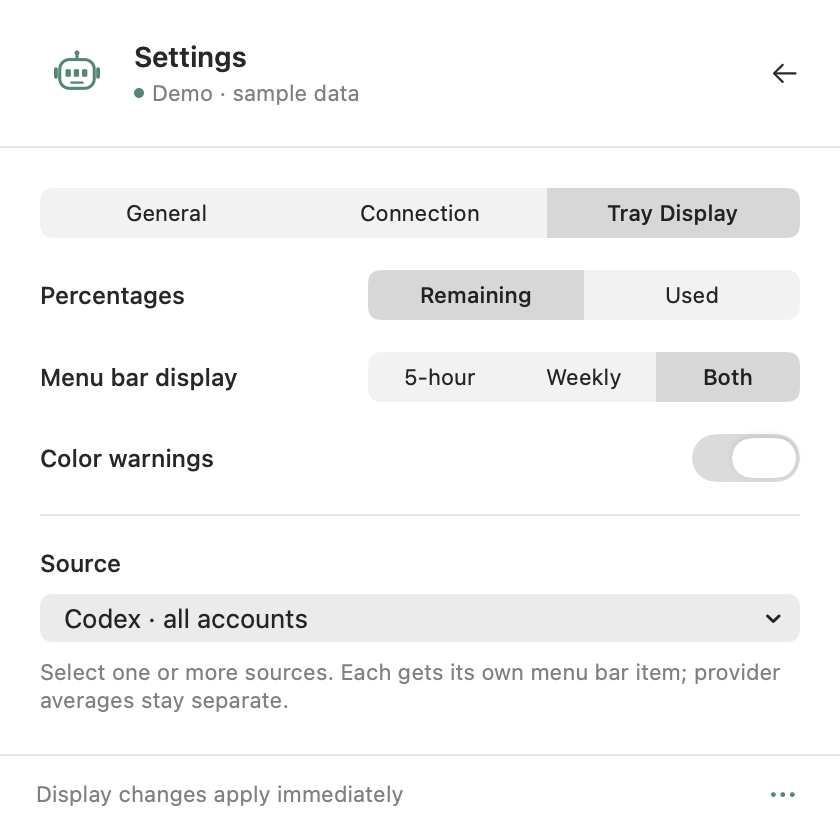
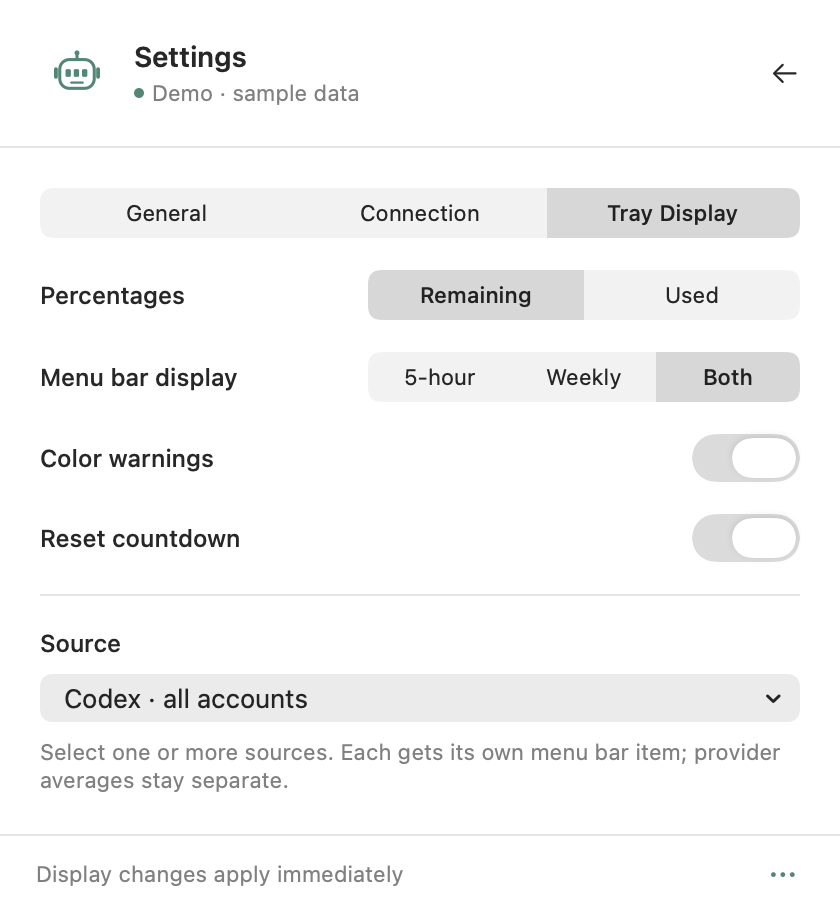
Make tray reset countdown independently configurable

diff --git a/Sources/CliProxyQuota/App.swift b/Sources/CliProxyQuota/App.swift
@@ -71,8 +71,8 @@ import QuotaCore
             button.font = .monospacedDigitSystemFont(ofSize: 12, weight: .medium)
             if index < readouts.count {
                 let readout = readouts[index]
-                button.attributedTitle = MenuBarAppearance.title(for: readout, mode: store.percentageMode, window: store.menuBarWindow, includeSource: readouts.count > 1, coloredWarnings: store.trayColorWarnings)
-                let resetText = store.trayColorWarnings ? readout.recoveryText(window: store.menuBarWindow).map { " · " + $0 } ?? "" : ""
+                button.attributedTitle = MenuBarAppearance.title(for: readout, mode: store.percentageMode, window: store.menuBarWindow, includeSource: readouts.count > 1, coloredWarnings: store.trayColorWarnings, showResetCountdown: store.trayResetCountdown)
+                let resetText = store.trayResetCountdown ? readout.recoveryText(window: store.menuBarWindow).map { " · " + $0 } ?? "" : ""
                 button.setAccessibilityLabel(readout.text(mode: store.percentageMode, window: store.menuBarWindow, includeSource: readouts.count > 1) + resetText)
                 button.toolTip = (store.demo ? "Demo · " : "") + readout.tooltip(mode: store.percentageMode, window: store.menuBarWindow)
             } else { button.attributedTitle = NSAttributedString(string: ""); button.setAccessibilityLabel("CliProxy Quota"); button.toolTip = "CliProxy Quota · click for accounts and Settings" }
@@ -200,9 +200,15 @@ import QuotaCore
             "Weekly label and used percentage must render in a red badge")
         try check(coloredBadges.allSatisfy { ($0[.attachment] as? NSTextAttachment)?.image?.isValid == true },
             "Rounded badge images must be valid")
-        let plainTitle = MenuBarAppearance.title(for: coloredReadout, mode: .used, window: .both, includeSource: true, coloredWarnings: false)
+        let plainTitle = MenuBarAppearance.title(for: coloredReadout, mode: .used, window: .both, includeSource: true, coloredWarnings: false, showResetCountdown: false)
         try check(badges(plainTitle).isEmpty && plainTitle.string == " " + coloredReadout.text(mode: .used, window: .both, includeSource: true),
             "Disabling color styling must restore plain tray labels and percentages")
+        let independentCountdown = MenuBarAppearance.title(for: coloredReadout, mode: .used, window: .both, coloredWarnings: false)
+        try check(badges(independentCountdown).isEmpty && independentCountdown.string.contains("↻"),
+            "Reset countdown must remain visible with color warnings disabled")
+        let hiddenCountdown = MenuBarAppearance.title(for: coloredReadout, mode: .used, window: .both, showResetCountdown: false)
+        try check(badges(hiddenCountdown).count == 2 && !hiddenCountdown.string.contains("↻"),
+            "Hiding the countdown must preserve color warnings")
         for background in [MenuBarAppearance.warningBackground, MenuBarAppearance.criticalBackground] {
             let c = background.usingColorSpace(.sRGB)!
             func linear(_ value: CGFloat) -> CGFloat { value <= 0.04045 ? value / 12.92 : pow((value + 0.055) / 1.055, 2.4) }

diff --git a/Sources/CliProxyQuota/MenuBarAppearance.swift b/Sources/CliProxyQuota/MenuBarAppearance.swift
@@ -26,18 +26,15 @@ enum MenuBarAppearance {
         return image
     }
     static func title(for readout: MenuBarReadout, mode: PercentageMode, window: MenuBarWindow,
-                      includeSource: Bool = false, coloredWarnings: Bool = true) -> NSAttributedString {
+                      includeSource: Bool = false, coloredWarnings: Bool = true, showResetCountdown: Bool = true) -> NSAttributedString {
         let font = NSFont.monospacedDigitSystemFont(ofSize: 12, weight: .medium)
         let normal: [NSAttributedString.Key: Any] = [.font: font, .foregroundColor: NSColor.labelColor]
-        guard coloredWarnings else {
-            return NSAttributedString(string: " " + readout.text(mode: mode, window: window, includeSource: includeSource), attributes: normal)
-        }
         let text = NSMutableAttributedString(string: " ", attributes: normal)
         if includeSource { text.append(NSAttributedString(string: readout.title + " ", attributes: normal)) }
         func append(_ remaining: Double?, label: String = "") {
             let value = label + (remaining.map { mode.formatted($0) } ?? "—")
             let severity = TrayQuotaSeverity.forRemaining(remaining)
-            guard severity != .normal else {
+            guard coloredWarnings && severity != .normal else {
                 text.append(NSAttributedString(string: value, attributes: normal)); return
             }
             text.append(NSAttributedString(string: " ", attributes: normal))
@@ -58,7 +55,7 @@ enum MenuBarAppearance {
             text.append(NSAttributedString(string: " · ", attributes: normal))
             append(readout.weekly, label: "ʷ ")
         }
-        if let recovery = readout.recoveryText(window: window) {
+        if showResetCountdown, let recovery = readout.recoveryText(window: window) {
             text.append(NSAttributedString(string: " · " + recovery, attributes: normal))
         }
         return text

diff --git a/Sources/QuotaCore/DisplayPreferences.swift b/Sources/QuotaCore/DisplayPreferences.swift
@@ -105,7 +105,6 @@ public struct MenuBarReadout: Identifiable, Equatable, Sendable {
         return values.contains { $0 != nil && TrayQuotaSeverity.forRemaining($0) == .critical }
     }
     public func recoveryText(window: MenuBarWindow, now: Date = Date()) -> String? {
-        guard hasCriticalReading(window: window) else { return nil }
         guard let date = nextUsefulReset else { return "↻ —" }
         let seconds = date.timeIntervalSince(now)
         guard seconds > 0 else { return "↻ due" }
@@ -121,10 +120,8 @@ public struct MenuBarReadout: Identifiable, Equatable, Sendable {
         let values = (window == .weekly ? [] : [describe(fiveHour, fiveHourIsWeeklyCapped ? "5-hour (limited by weekly)" : "5-hour")]) +
             (window == .fiveHour ? [] : [describe(weekly, "Weekly")])
         var descriptions = [detail] + values
-        if hasCriticalReading(window: window) {
-            descriptions.append(nextUsefulReset.map { "Next usable reset: " + $0.formatted(date: .complete, time: .complete) + " (estimated; refresh confirms capacity)" }
-                ?? "Next usable reset unavailable")
-        }
+        descriptions.append(nextUsefulReset.map { "Next usable reset: " + $0.formatted(date: .complete, time: .complete) + " (estimated; refresh confirms capacity)" }
+            ?? "Next usable reset unavailable")
         return descriptions.joined(separator: " · ")
     }
 }

diff --git a/Tests/QuotaCoreTests/QuotaRecoveryTests.swift b/Tests/QuotaCoreTests/QuotaRecoveryTests.swift
@@ -40,10 +40,10 @@ final class QuotaRecoveryTests: XCTestCase {
         let valid = quota("c", five: 0, weekly: 80, fiveReset: 3600, weekReset: 7200)
         XCTAssertEqual(QuotaRecovery.nextIncrease(in: [failed,disabled,valid]), now.addingTimeInterval(3600))
     }
-    func testReadoutRecoveryOnlyForVisibleCriticalWindow() {
+    func testReadoutRecoveryIndependentOfVisibleCriticalWindow() {
         let value = MenuBarReadout(id: "a", title: "a", detail: "a", fiveHour: 10, weekly: 30, nextUsefulReset: now.addingTimeInterval(8040))
         XCTAssertEqual(value.recoveryText(window: .both, now: now), "↻ 2h 14m")
-        XCTAssertNil(value.recoveryText(window: .weekly, now: now))
+        XCTAssertEqual(value.recoveryText(window: .weekly, now: now), "↻ 2h 14m")
         XCTAssertEqual(value.recoveryText(window: .fiveHour, now: now.addingTimeInterval(8040)), "↻ due")
         let missing = MenuBarReadout(id: "a", title: "a", detail: "a", fiveHour: 0, weekly: 0)
         XCTAssertEqual(missing.recoveryText(window: .both, now: now), "↻ —")

diff --git a/Sources/CliProxyQuota/QuotaStore.swift b/Sources/CliProxyQuota/QuotaStore.swift
@@ -53,6 +53,10 @@ import QuotaCore
             NSApp.appearance = appearance.nativeAppearance
         }
     } }
+    @Published var trayResetCountdown: Bool { didSet {
+        if !demo { UserDefaults.standard.set(trayResetCountdown, forKey: "trayResetCountdown") }
+        onChange?()
+    } }
     @Published var trayColorWarnings: Bool { didSet {
         if !demo { UserDefaults.standard.set(trayColorWarnings, forKey: "trayColorWarnings") }
         onChange?()
@@ -103,6 +107,7 @@ import QuotaCore
     init(demo: Bool = false) {
         self.demo = demo
         let defaults = UserDefaults.standard
+        trayResetCountdown = demo ? true : defaults.object(forKey: "trayResetCountdown") as? Bool ?? true
         trayColorWarnings = demo ? true : defaults.object(forKey: "trayColorWarnings") as? Bool ?? true
         forecastEnabled = demo ? true : defaults.object(forKey: "forecastEnabled") as? Bool ?? true
         forecastLookback = demo ? .sixty : ForecastLookback(rawValue: defaults.integer(forKey: "forecastLookback")) ?? .sixty

diff --git a/Tests/QuotaCoreTests/DisplayPreferencesTests.swift b/Tests/QuotaCoreTests/DisplayPreferencesTests.swift
@@ -21,7 +21,7 @@ final class DisplayPreferencesTests: XCTestCase {
         XCTAssertTrue(missing.tooltip(mode: .used, window: .both).contains("Weekly: unavailable"))
     }
     func testTooltipRetainsMeaningWhenVisibleLabelsAreOmitted() {
-        XCTAssertEqual(readout.tooltip(mode: .used, window: .weekly), "Codex · account average · Weekly: 16% used")
+        XCTAssertEqual(readout.tooltip(mode: .used, window: .weekly), "Codex · account average · Weekly: 16% used · Next usable reset unavailable")
     }
     func quota(_ id: String, provider: String = "codex", five: Double?, weekly: Double?, disabled: Bool = false) -> AccountQuota {
         var windows: [QuotaWindow] = []

diff --git a/Sources/CliProxyQuota/Views.swift b/Sources/CliProxyQuota/Views.swift
@@ -282,6 +282,11 @@ struct SettingsView: View {
                 Spacer()
                 Toggle("Color warnings", isOn: $store.trayColorWarnings).labelsHidden().toggleStyle(.switch)
             }.font(.system(size: 12, weight: .medium))
+            HStack {
+                Text("Reset countdown")
+                Spacer()
+                Toggle("Reset countdown", isOn: $store.trayResetCountdown).labelsHidden().toggleStyle(.switch)
+            }.font(.system(size: 12, weight: .medium))
             Divider()
             VStack(alignment: .leading, spacing: 8) {
                 Text("Source").font(.system(size: 12, weight: .medium))

diff --git a/README.md b/README.md
@@ -23,7 +23,7 @@ A small, native macOS app for [CLIProxyAPI](https://github.com/router-for-me/CLI
 - **Remaining or Used**: one preference updates percentages and bars in both quota views and the menu bar.
 - **5-hour, Weekly, or Both** in the menu bar. Single limits show `72%`; Both shows `⁵ʰ 72% · ʷ 84%`.
 - **Weekly-aware tray quota**: each account contributes the lower of its 5-hour and weekly remaining percentages to the tray’s 5-hour average. A weekly-exhausted account contributes 0%, even if its 5-hour window is full.
-- **Tray warning badges**: each percentage and its window label use white text on a rounded dark yellow/gold background above 10% through 25% remaining and a red background at or below 10%. Colors always reflect remaining capacity, including in Used mode. **Color warnings** in Tray Display is on by default; switch it off for plain tray text. A red reading adds a reset countdown for the next reported reset that increases usable capacity.
+- **Tray warning badges**: each percentage and its window label use white text on a rounded dark yellow/gold background above 10% through 25% remaining and a red background at or below 10%. Colors always reflect remaining capacity, including in Used mode. **Color warnings** in Tray Display is on by default; switch it off for plain tray text. The separate **Reset countdown** switch is also on by default and works independently of colors and warning thresholds.
 - **Checkbox source menu**: select provider averages or individual accounts. Each selected source gets its own menu bar item; clear all selections for icon-only mode.
 - **Provider-wide usage forecast**: one sentence in All accounts estimates whether the combined allowance lasts until reset. Enable or disable it under General and choose a 30-, 60-, or 120-minute averaging period.
 - **Automatic refresh** every 1, 2, 5, or 10 minutes, plus manual refresh.
@@ -102,7 +102,7 @@ HTTPS is the default for remote instances. To use a trusted HTTP instance, expli
 </tr>
 <tr><td align="center"><strong>Tray Display</strong></td><td align="center"><strong>General in dark mode</strong></td></tr>
 <tr>
-<td><img src="docs/screenshots/settings.png" width="360" alt="Tray Display settings with the default-on Color warnings switch, remaining or used percentages, quota windows, and source selection" /></td>
+<td><img src="docs/screenshots/settings.png" width="360" alt="Tray Display settings with the default-on Color warnings and Reset countdown switches, remaining or used percentages, quota windows, and source selection" /></td>
 <td><img src="docs/screenshots/settings-general-dark.png" width="360" alt="General settings using dark appearance" /></td>
 </tr>
 </table>
@@ -115,7 +115,7 @@ HTTPS is the default for remote instances. To use a trusted HTTP instance, expli
 
 For each account with both standard windows, the tray’s 5-hour figure is `min(5-hour remaining, weekly remaining)`. Provider sources average these per-account results; the app never caps a provider average using another provider average. Weekly-only readings remain unchanged. If the API omits the weekly window, the reported 5-hour value is used; missing and stale windows show a dash. Review-specific limits are excluded.
 
-When a displayed reading is red, an extra `↻` segment estimates when usable allowance next increases. The app evaluates each account’s main 5-hour and weekly windows together, then takes the earliest useful recovery across the selected accounts. A weekly-exhausted account ignores a 5-hour reset that leaves weekly allowance at zero; if both windows are empty, both must reset before that account can recover. With nonzero remaining allowance, the countdown identifies the next increase in the lower of the two windows. Missing blocking reset dates show a dash. A past-due reset shows `due` until a quota refresh confirms it. Hover the tray item for the absolute reset time. This segment is hidden when Color warnings is off.
+With **Reset countdown** enabled in Tray Display (the default), an extra `↻` segment estimates when usable allowance next increases. The app evaluates each account’s main 5-hour and weekly windows together, then takes the earliest useful recovery across the selected accounts. A weekly-exhausted account ignores a 5-hour reset that leaves weekly allowance at zero; if both windows are empty, both must reset before that account can recover. With nonzero remaining allowance, the countdown identifies the next increase in the lower of the two windows. Missing blocking reset dates show a dash. A past-due reset shows `due` until a quota refresh confirms it. Hover the tray item for the absolute reset time. This setting applies immediately and is independent of Color warnings; the countdown also appears for healthy readings.
 
 For example, accounts reporting `100% / 0%` and `80% / 60%` contribute `0%` and `60%`, so the provider’s tray 5-hour figure is **30%**. Used mode shows its complement, **70%**. The tooltip identifies when the weekly limit reduces the 5-hour reading. Quota views continue to show each window’s API-reported percentage, and usage forecasts use the observed API values.
 
